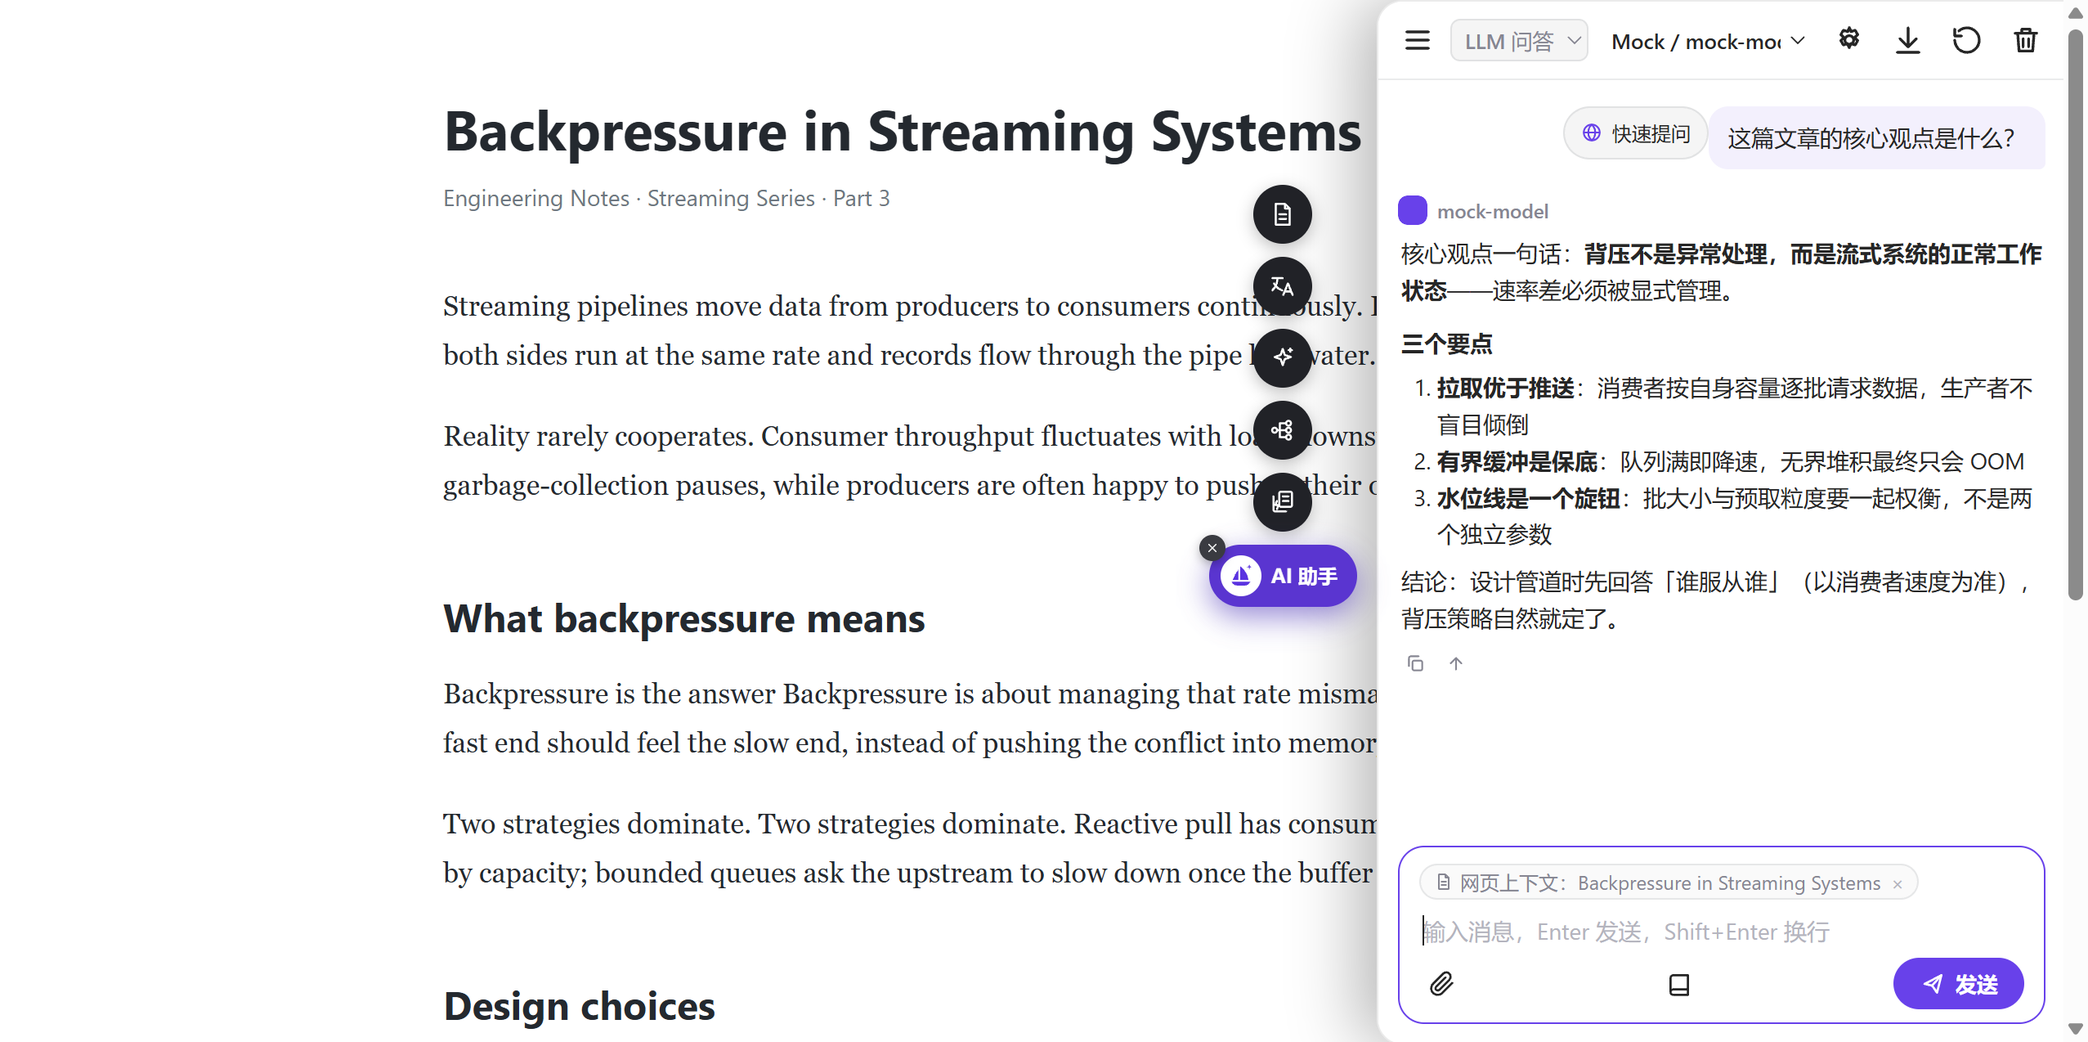
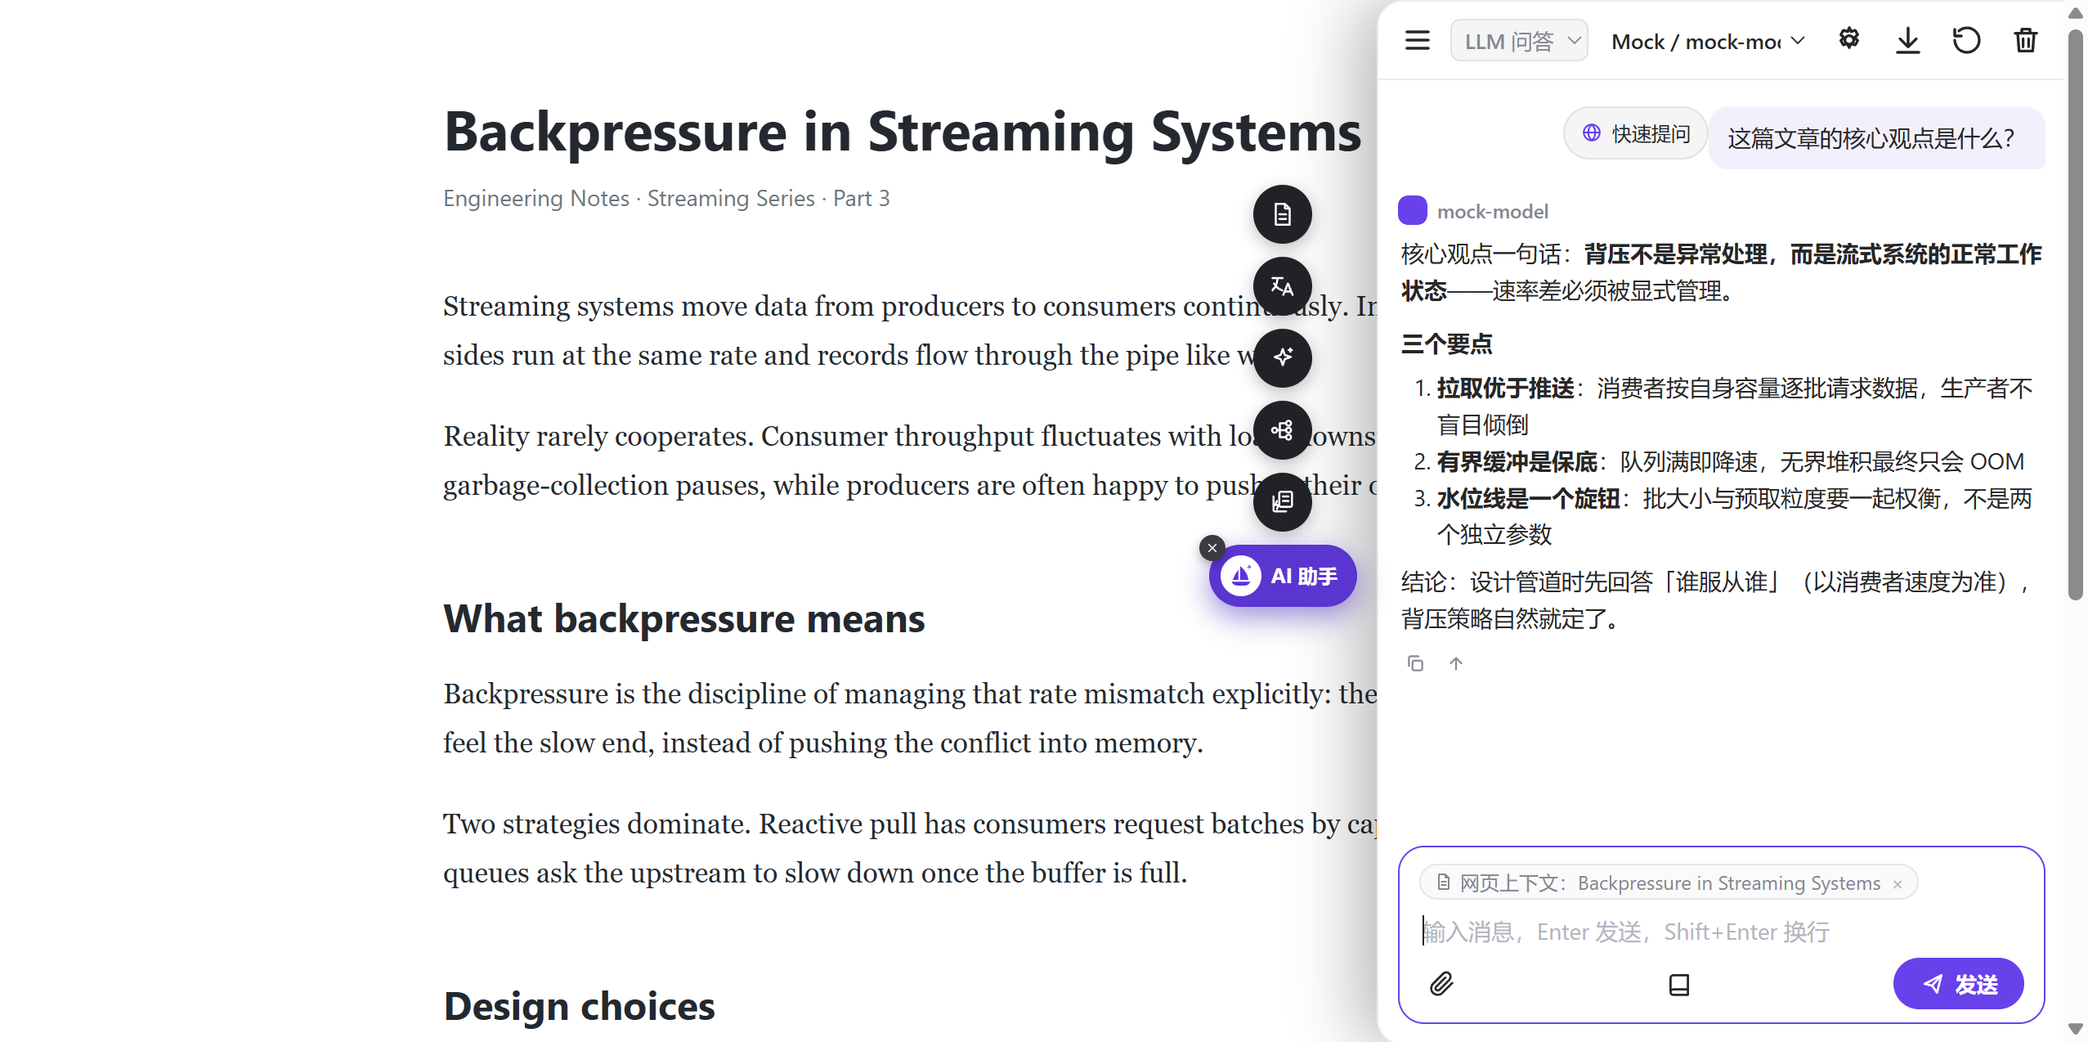
README 审阅修正：上架说明迁至维护者文档，修正四处与代码不符的描述
- 「上架 Chrome 商店」整节迁至 docs/cws-publishing.md（维护者笔记，不进扩展包）；
  bridge 从 Release 下载 zip 的指路补进「启动 agent bridge」一节
- 修正：manifest 已声明 <all_urls>，保存供应商不会弹站点授权框（contains 恒真）
- 修正：翻译不跳过页眉页脚（导航链接特意收录）；实际跳过代码块 / 表单控件 / 纯标识符
- 修正：模型下拉离线回退仅 Claude 系（Opus/Sonnet/Haiku），Codex 不硬编码
- 修正：沉浸模式没有逐块降级对照逻辑，实为整块替换 + innerHTML 快照还原
- 翻译截图重生成：mock 按协议返回等长 JSON 数组（纯文本回复无法回填），完成判定
  改为 DOM 计量（译文块数 + 无 om-tx-wait）；新增 tmp-tx-probe.mjs 固化协议复现方法

diff --git a/README.en.md b/README.en.md
@@ -57,7 +57,7 @@ Unlike account-based assistants metered by per-day quotas, Vela leaves both cont
 | Zhipu / DeepSeek / Kimi etc. | OpenAI-compatible | See each provider's docs |
 
 3. Type model IDs manually, or click **Test connection** to fetch and merge them (`GET /models`)
-4. Check **Default** → **Save all**. The browser will ask once for site access permission (required — otherwise fetches from extension pages are blocked by CORS)
+4. Check **Default** → **Save all**
 
 ## Three Engines
 
@@ -80,7 +80,7 @@ The engine is a per-conversation property, switched from the header (your choice
 - **Bridge companion process** (`bridge/`, Node ≥18): a WebSocket bridge between extension pages and local agent CLIs, bound to `127.0.0.1` only; token auto-paired on first handshake + Origin validation (web pages cannot connect)
 - **Sub-agents**: steps of sub-agents spawned by the agent (Task tool) collapse under their Task step; for large codebase exploration, bind the project directory as the workspace (knowledge-base popup)
 - **Permission mode (per conversation)**: dropdown under the input box — approve each step / auto-accept edits / auto-allow; global default configurable in settings
-- **Model (per conversation)**: dropdown under the input box; options are fetched live from the LLM gateway behind the agent via the bridge, falling back to Opus / Sonnet / Haiku aliases; the default entry shows the actual resolved model
+- **Model (per conversation)**: dropdown under the input box; options are fetched live from the LLM gateway behind the agent via the bridge, with Claude falling back to Opus / Sonnet / Haiku aliases when unavailable; the default entry shows the actual resolved model
 - **Conversation workspace**: each conversation gets its own subdirectory under the "workspace base directory" (default `~/.vela-bridge/workspaces`); you can also bind a local project directory as the workspace (the agent works directly inside the project)
 - **Knowledge base & attachments**: see below; attachments support files, images, audio/video (≤100MB each and cumulative), uploaded into the workspace `uploads/` on send
 - Agent-side sessions resume across turns: automatic frame backfill on reconnect (500-frame buffer), context survives bridge restarts
@@ -102,7 +102,7 @@ Format support: text with line numbers (GBK fallback when UTF-8 fails), docx / x
 
 - **Floating widget** (main entry): pinned on the right edge of http(s) pages — dark round action buttons (summarize / translate / explain selection / continuous read / mind map) plus the brand-purple capsule. The capsule toggles the **in-page chat card** in place; "×" hides the widget for the current page (restored on reload); the translate button is a toggle (starts translation in place without opening the chat card, shows ✓ when done, click again to restore); hovering reveals a small settings gear (translation model / target language / bilingual / immersive, saved immediately)
 - **Summarize this page**: extracts the current tab's article (title + URL recorded with the message), streams a summary, follow-ups supported
-- **Translate this page**: viewport-driven full-page translation — translates the current viewport first (1 screen of prefetch below), continues as you scroll, waiting paragraphs show an inline "translating" marker; bilingual (default) / immersive switchable; headers / footers / code / identifiers auto-skipped; per-page limits adjustable in settings (default 1500 blocks / 300000 chars)
+- **Translate this page**: viewport-driven full-page translation — translates the current viewport first (1 screen of prefetch below), continues as you scroll, waiting paragraphs show an inline "translating" marker; bilingual (default) / immersive switchable; code blocks and form controls are skipped automatically, pure identifiers / config tokens / URLs are left untranslated; per-page limits adjustable in settings (default 1500 blocks / 300000 chars)
 - **Quick actions**: select text → toolbar or context-menu group; templates editable in settings (`{text}` placeholder)
 - **Selection mind maps**: highlights only record, generation is always explicit — "Highlight" collects selected text into a material inbox, the "Mind map" button generates explicitly (highlight-material / full-page dual mode; reopening an unchanged page costs zero LLM calls); supports inline rename, outline round-trip editing, collapse / pan / zoom, export to .md / FreeMind .mm
 - **Media understanding**: hover an image / video ≥80px for 200ms and a brand-purple round button appears at its top right; click to open the single-media popup in place. Four actions for images: analyze / extract text / feed into mind map / download; videos get keyframe-based visual analysis
@@ -118,7 +118,7 @@ npm install        # first time only
 node index.js      # listens on ws://127.0.0.1:39217 by default
 ```
 
-Or just double-click `bridge\start.bat` (switches directory, installs dependencies on first run, starts). Prerequisites: Claude Code (`claude` command available) or Codex (`codex` command available), installed and logged in on this machine.
+Or just double-click `bridge\start.bat` (switches directory, installs dependencies on first run, starts). Prefer not to clone the repo? Download `vela-bridge-<version>.zip` from a [GitHub Release](https://github.com/caokz/vela/releases), then run `npm install` and `node index.js` the same way. Prerequisites: Claude Code (`claude` command available) or Codex (`codex` command available), installed and logged in on this machine.
 
 **Autostart on boot** (one-time setup; admin rights not required — an HKCU Run key is enough):
 
@@ -129,16 +129,6 @@ reg add "HKCU\Software\Microsoft\Windows\CurrentVersion\Run" /v VelaBridge /t RE
 `bridge-hidden.vbs` starts the bridge with no console window; output goes to `bridge\bridge-autostart.log`. To remove autostart: `reg delete "HKCU\Software\Microsoft\Windows\CurrentVersion\Run" /v VelaBridge /f`.
 
 **Start/stop from the settings page**: on first run the bridge registers a `vela-bridge://` URL protocol on Windows; the settings page "Start bridge" button launches it via that protocol, "Stop bridge" shuts it down gracefully, with live connection status. The first launch writes a pairing token to `~/.vela-bridge/token.json` (0600); the extension pairs automatically on first handshake — no manual pasting.
-
-## Publishing to the Chrome Web Store
-
-host_permissions keep `<all_urls>` (the pinned widget and summarize/translate on arbitrary pages need it), consistent with mainstream AI assistant extensions; attach a purpose statement during review. Steps:
-
-1. Package: `node scripts/package.mjs` → `dist/vela-<version>.zip` (whitelist-based: only `manifest.json` / `src/` / `assets/`; the bridge is a local companion process and is not part of the extension zip). Distribute the bridge separately: `node scripts/package-bridge.mjs`, attach to a GitHub Release; users run `npm i && node index.js`
-2. One-time $5 developer registration, upload the zip for review
-3. Privacy policy link (mandatory): `<all_urls>` + "Read and change all your data on all websites" triggers the requirement — all data is stored locally; network requests only go to user-configured provider endpoints and the local bridge (127.0.0.1); no telemetry, no accounts
-4. Permission justifications (state each in the review form): `<all_urls>` summarize/translate/selection actions on arbitrary pages + pinned widget; `scripting` on-demand extraction and backfill scripts; `sidePanel` / `contextMenus` / `commands` side panel, context menus, shortcuts; `downloads` conversation export and media downloads; `web_accessible_resources` in-page chat card iframe and the hidden translation runner
-5. Screenshots 1280×800 or larger; keep the store description consistent with the privacy policy
 
 ## Repository Layout
 
@@ -166,6 +156,7 @@ src/sidepanel/ src/chatpage/ src/options/    the three page documents
 scripts/                      tests (unit + browser e2e), packaging, icon generation
 docs/DESIGN.md                extension architecture and protocol design
 docs/agent-bridge.md          bridge WS protocol and event vocabulary
+docs/cws-publishing.md        Chrome Web Store publishing notes (maintainers, Chinese)
 ```
 
 ## Security Notes
@@ -183,7 +174,7 @@ docs/agent-bridge.md          bridge WS protocol and event vocabulary
 - `max_tokens` is not sent by default; required by the Anthropic protocol, default 4096. Some newer models reject temperature — leave it blank to omit
 - Widget-initiated translations run in a hidden in-page runner iframe and end on page navigation; context-menu-initiated translations run in the side panel / chat page and end when it closes
 - The native side panel has no close API (Chrome limitation): in-page open/close is handled by the widget's chat card
-- In immersive mode, paragraphs containing links / code / images fall back to bilingual (to preserve formatting)
+- Immersive mode replaces each block with plain translated text; inline links / code markup are restored from snapshots on revert or when switching back to bilingual; code blocks are never translated in either mode
 - Continuous reading only follows same-origin "next page" links, never crosses sites; 30-page limit per run (`llmSettings.readSeries.maxPages`)
 - Knowledge-base authorization inside the chat card is a read-only snapshot (a browser restriction on cross-origin iframes); for zero-copy handles, authorize from the side panel / chat page
 - Overlong contexts are auto-split in half and retried; 429 rate limits abort the round — retry later

diff --git a/README.md b/README.md
@@ -57,7 +57,7 @@
 | 智谱 / DeepSeek / Kimi 等 | OpenAI 兼容 | 见各官方文档 |
 
 3. 模型栏手动填写，或点「测试连接」自动拉取（`GET /models`）合并
-4. 勾选「默认」→「保存全部」。保存时浏览器会弹一次站点访问授权（必需，否则扩展页 fetch 被 CORS 拦）
+4. 勾选「默认」→「保存全部」
 
 ## 三引擎
 
@@ -80,7 +80,7 @@
 - **bridge 伴生进程**（`bridge/`，Node ≥18）：扩展页 ↔ 本机 agent CLI 的 WebSocket 桥，只绑 `127.0.0.1`，token 首次握手自动配对 + Origin 校验（网页无法接入）
 - **子智能体**：agent 派出的子智能体（Task 工具）内部步骤折叠到对应 Task 步骤下；大范围源码探索建议把项目目录绑定为工作目录（知识库弹层）
 - **权限模式（会话级）**：输入框下方下拉——每步审批 / 自动接受编辑 / 自动放行；设置页配全局默认
-- **模型（会话级）**：输入框下方下拉，选项经 bridge 从 agent 背后的 LLM 网关动态拉取，拉不到回退 Opus / Sonnet / Haiku 别名；默认项显示真实落点
+- **模型（会话级）**：输入框下方下拉，选项经 bridge 从 agent 背后的 LLM 网关动态拉取，拉不到时 Claude 系回退 Opus / Sonnet / Haiku 别名；默认项显示真实落点
 - **会话工作区**：每个对话在「工作基础目录」（默认 `~/.vela-bridge/workspaces`）下自动建独立子目录；也可在知识库弹层把本机项目目录绑定为工作目录（agent 直接在项目里干活）
 - **知识库与附件**：见下节；附件支持文件、图片、音视频（单个与累计 ≤100MB），发送时上传进工作区 `uploads/`
 - agent 侧 session 跨轮续接：断线自动补帧（500 帧缓冲），bridge 重启后仍记得上文
@@ -102,7 +102,7 @@
 
 - **页面浮窗**（主要入口）：http(s) 页面右侧常驻——深色圆形动作钮（总结 / 翻译 / 解释选中文字 / 连读 / 导图）+ 品牌紫胶囊。胶囊就地开关**页内聊天卡**；「×」隐藏当前页浮窗，刷新自动恢复；翻译按钮是开关（就地启动不弹聊天卡，完成带 ✓，再点还原），悬停亮出小设置齿轮（翻译模型 / 目标语言 / 对照 / 沉浸，改动即存）
 - **总结此页**：提取当前标签页正文（标题 + URL 随消息记录），流式总结，可追问
-- **翻译此页**：视口驱动整页翻译——先译当前视口（下方 1 屏预取），滚动自动续译，等待段落就地显示「翻译中」；对照（默认）/ 沉浸可切；自动跳过页眉页脚 / 代码 / 标识符；每页翻译上限可在设置页调整（默认 1500 块 / 300000 字符）
+- **翻译此页**：视口驱动整页翻译——先译当前视口（下方 1 屏预取），滚动自动续译，等待段落就地显示「翻译中」；对照（默认）/ 沉浸可切；自动跳过代码块与表单控件，纯标识符 / 配置项 / URL 不翻译；每页翻译上限可在设置页调整（默认 1500 块 / 300000 字符）
 - **快捷动作**：选中文字 → 工具条或右键动作组，模板可在设置页增删改（`{text}` 占位符）
 - **划词思维导图**：高亮只记录、生成永远显式——「高亮」把选中文本攒进素材库，「思维导图」钮显式生成（高亮素材 / 整页正文双模式，同页同模式内容没变重开零调用）；支持就地改名、编辑大纲往返、折叠 / 平移缩放、导出 .md / FreeMind .mm
 - **媒体理解**：鼠标停在 ≥80px 的图片 / 视频上 200ms，右上角浮出品牌紫圆钮，点击就地弹单媒体弹层。图片四动作：分析 / 提取文案 / 进导图 / 下载；视频取关键帧做视觉分析
@@ -118,7 +118,7 @@ npm install        # 仅首次
 node index.js      # 默认监听 ws://127.0.0.1:39217
 ```
 
-或直接双击 `bridge\start.bat`（自动切目录、首次装依赖、启动）。前提：本机已安装并登录 Claude Code（`claude` 命令可用）或 Codex（`codex` 命令可用）。
+或直接双击 `bridge\start.bat`（自动切目录、首次装依赖、启动）。不想克隆仓库时，从 [GitHub Release](https://github.com/caokz/vela/releases) 下载 `vela-bridge-<版本>.zip` 解压，同样 `npm install` 后 `node index.js`。前提：本机已安装并登录 Claude Code（`claude` 命令可用）或 Codex（`codex` 命令可用）。
 
 **开机自启**（一次配置）：管理员权限不是必须，注册 HKCU Run 键即可：
 
@@ -129,16 +129,6 @@ reg add "HKCU\Software\Microsoft\Windows\CurrentVersion\Run" /v VelaBridge /t RE
 `bridge-hidden.vbs` 隐藏窗口启动，输出写 `bridge\bridge-autostart.log`。取消自启：`reg delete "HKCU\Software\Microsoft\Windows\CurrentVersion\Run" /v VelaBridge /f`。
 
 **设置页启停**：bridge 首次运行后在 Windows 注册 `vela-bridge://` URL 协议；设置页「启动 bridge」按钮经该协议拉起进程，「停止 bridge」走优雅退出，连接状态实时显示。首次启动会在 `~/.vela-bridge/token.json` 生成配对 token（0600 权限），扩展与 bridge 首次握手自动配对，无需手动粘贴。
-
-## 上架 Chrome 商店
-
-host_permissions 保留 `<all_urls>`（页面常驻浮窗、任意网页总结 / 翻译依赖它），与主流 AI 助手类扩展一致，审核时附用途说明即可。步骤：
-
-1. 打包：`node scripts/package.mjs` → `dist/vela-<版本>.zip`（白名单制，只含 `manifest.json` / `src/` / `assets/`；bridge 是本机伴生进程，不进扩展包）。bridge 单独分发：`node scripts/package-bridge.mjs`，挂 GitHub Release，用户下载后 `npm i && node index.js`
-2. 开发者账号一次性 $5 注册费，上传 zip 提审
-3. 隐私政策链接（必填）：`<all_urls>` + 「读取和更改所有网站数据」触发强制要求——数据全部本地存储，网络请求只发用户配置的供应商端点与本地 bridge（127.0.0.1），无遥测无账号体系
-4. 权限用途说明（提审表单逐条写清）：`<all_urls>` 任意网页总结 / 翻译 / 划词动作与常驻浮窗；`scripting` 按需注入提取与回填脚本；`sidePanel` / `contextMenus` / `commands` 侧边栏、右键组、快捷键；`downloads` 会话导出与媒体下载；`web_accessible_resources` 页内聊天卡 iframe 与隐藏翻译 runner 页
-5. 截图 1280×800 起，商店描述与隐私政策口径一致
 
 ## 目录结构
 
@@ -166,6 +156,7 @@ src/sidepanel/ src/chatpage/ src/options/    三个页面文档
 scripts/                      测试（单元 + 浏览器 e2e）、打包、图标生成
 docs/DESIGN.md                扩展架构与协议设计
 docs/agent-bridge.md          bridge WS 协议与事件词汇表
+docs/cws-publishing.md        商店上架维护者笔记（不属于用户文档）
 ```
 
 ## 安全说明
@@ -183,7 +174,7 @@ docs/agent-bridge.md          bridge WS 协议与事件词汇表
 - `max_tokens` 默认不发送；Anthropic 协议必填，默认 4096。部分新模型不接受 temperature，留空即不发送
 - 浮窗发起的翻译跑在页内隐藏 runner iframe，页面导航即结束；右键菜单发起的翻译跑在侧边栏 / 聊天页，关闭面板即终止
 - 原生侧边栏无关闭 API（Chrome 限制）：页内开合由浮窗聊天卡承担
-- 沉浸模式下含链接 / 代码 / 图片的段落自动降级为对照（防丢格式）
+- 沉浸模式按块整块替换为纯译文，行内链接 / 代码等标记在还原或切回对照时按快照恢复；代码块两种模式都不翻译
 - 连读只跟同源「下一页」，不跨站；单次上限 30 页（`llmSettings.readSeries.maxPages`）
 - 聊天卡里的知识库授权是只读快照（浏览器对跨源 iframe 的限制），要零拷贝句柄请在侧边栏 / 聊天页里授权
 - 上下文超限自动对半拆批重试；429 限流中止整轮，可稍后重试

diff --git a/docs/cws-publishing.md b/docs/cws-publishing.md
@@ -1,0 +1,13 @@
+# 上架 Chrome Web Store（维护者笔记）
+
+面向商店发布流程的维护者备忘，不属于用户文档；`docs/` 不进扩展包（打包白名单只有 `manifest.json` / `src/` / `assets/`，见 `scripts/package.mjs`）。
+
+host_permissions 保留 `<all_urls>`（页面常驻浮窗、任意网页总结 / 翻译依赖它），与主流 AI 助手类扩展一致，审核时附用途说明即可。步骤：
+
+1. 打包：`node scripts/package.mjs` → `dist/vela-<版本>.zip`（白名单制，只含 `manifest.json` / `src/` / `assets/`；bridge 是本机伴生进程，不进扩展包）。bridge 单独分发：`node scripts/package-bridge.mjs`，挂 GitHub Release，用户下载后 `npm i && node index.js`
+2. 开发者账号一次性 $5 注册费，上传 zip 提审
+3. 隐私政策链接（必填）：`<all_urls>` + 「读取和更改所有网站数据」触发强制要求——数据全部本地存储，网络请求只发用户配置的供应商端点与本地 bridge（127.0.0.1），无遥测无账号体系
+4. 权限用途说明（提审表单逐条写清）：`<all_urls>` 任意网页总结 / 翻译 / 划词动作与常驻浮窗；`scripting` 按需注入提取与回填脚本；`sidePanel` / `contextMenus` / `commands` 侧边栏、右键组、快捷键；`downloads` 会话导出与媒体下载；`web_accessible_resources` 页内聊天卡 iframe 与隐藏翻译 runner 页
+5. 截图 1280×800 起，商店描述与隐私政策口径一致
+
+备注：若日后为上架改为 optional host permissions，`src/options/options.js` 的 `ensureOriginPermission`（`permissions.contains` / `request` 流程）已保留——当前 manifest 声明 `<all_urls>` 时 contains 恒真、request 不会触发，属休眠路径。
